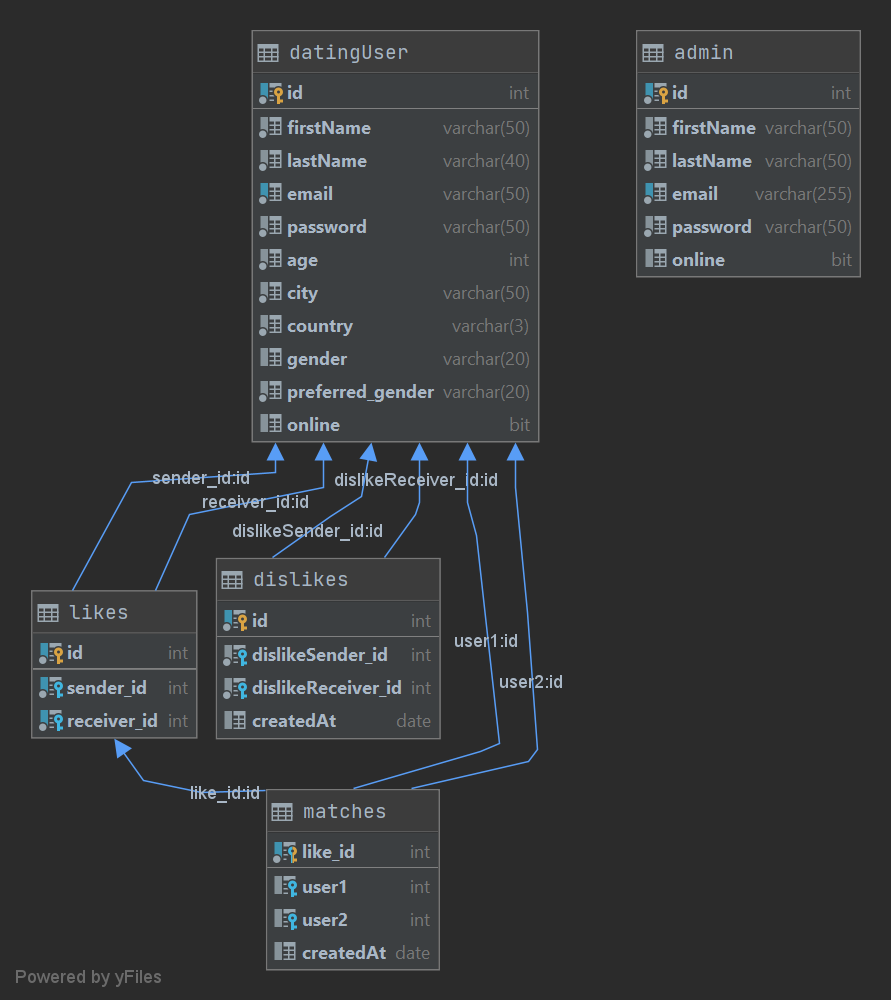
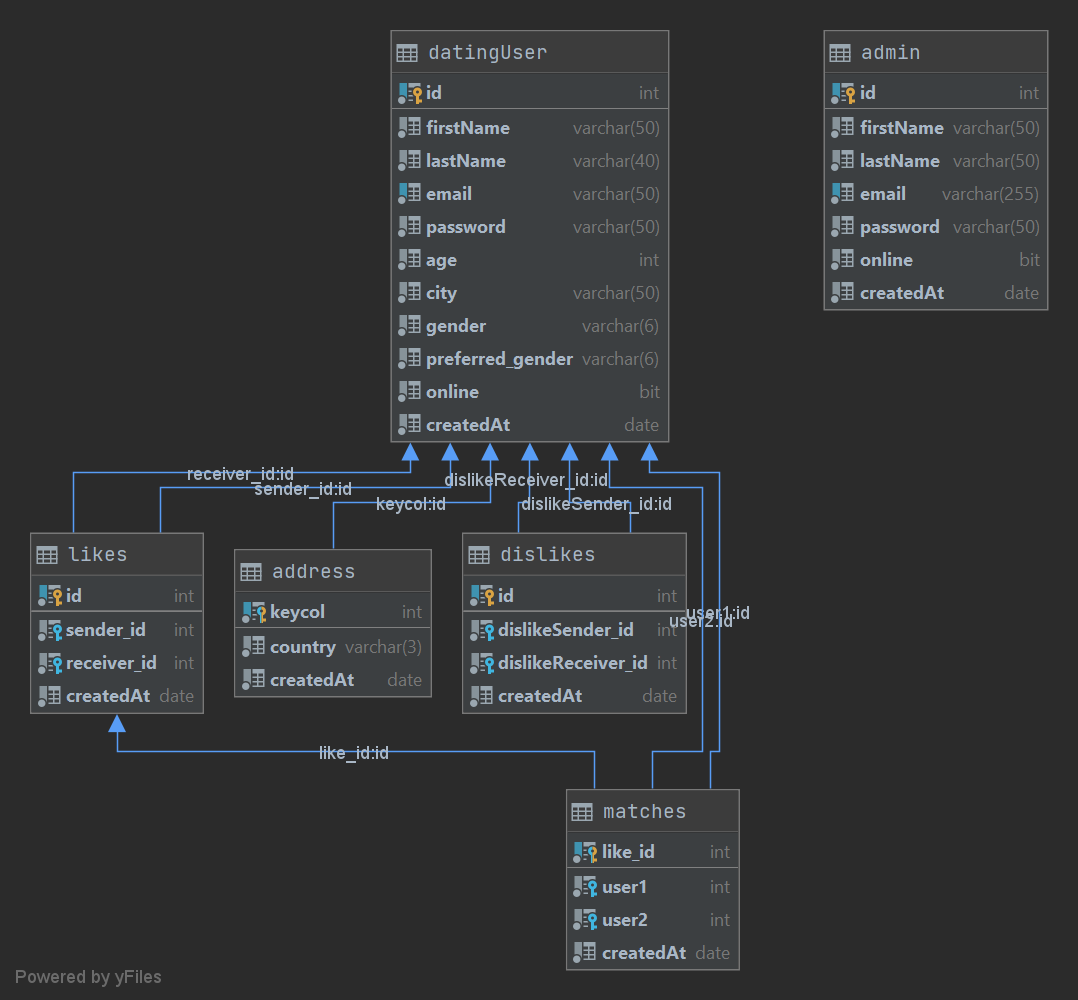
small changes

Changed region(s): [[0.0303, 0.031, 0.697, 0.961], [0.697, 0.031, 0.9697, 0.31], [0.0, 0.961, 0.1818, 0.992]]

diff --git a/Model/datingUserModel.js b/Model/datingUserModel.js
@@ -39,8 +39,15 @@ module.exports.startDB = startDB;
 //A user creates an account, when his information is posted to the database
 function insert(datingUser){
     return new Promise((resolve, reject) => {
-        const sql = `INSERT INTO [GK7].[datingUser] (firstName, lastName, email, password, age, city, country, gender, preferred_gender)
-         VALUES (@firstName, @lastName, @email, @password, @age, @city, @country, @gender, @preferred_gender)`
+        const sql = `BEGIN
+                        DECLARE @address TABLE  (id Int, country VARCHAR(3));
+                        INSERT INTO GK7.datingUser(firstName, lastName, email, password, age, city, gender, preferred_gender)
+                        OUTPUT inserted.id, 'Den'
+                        INTO @address
+                        VALUES (@firstName, @lastName, @email, @password, @age, @city, @gender, @preferred_gender)
+                        INSERT INTO GK7.address (keycol, country) (
+                        SELECT id, country FROM @address)
+                    END`
         const request = new Request(sql, (err) => {
             if (err) {
                 reject(err)
@@ -52,8 +59,7 @@ function insert(datingUser){
         request.addParameter('email', TYPES.VarChar, datingUser.email)
         request.addParameter('password', TYPES.VarChar, datingUser.password)
         request.addParameter('age', TYPES.Int, datingUser.age)
-        request.addParameter('city', TYPES.VarChar, datingUser.city)        
-        request.addParameter('country', TYPES.VarChar, datingUser.country)        
+        request.addParameter('city', TYPES.VarChar, datingUser.city)       
         request.addParameter('gender', TYPES.VarChar, datingUser.gender)
         request.addParameter('preferred_gender', TYPES.VarChar, datingUser.preferred_gender)
         request.on('requestCompleted', (row) => {
@@ -71,9 +77,15 @@ module.exports.insert = insert;
 //This function is also triggered, when getting one's profileid, firstName, lastName, email, age, city, country, gender, preferred_gender 
 function select(email, password){
     return new Promise((resolve, reject) => {
-        const sql = `SELECT id, firstName, lastName, email, password, age, city, country, gender, preferred_gender, online
-                    FROM [GK7].[datingUser]  
-                    WHERE email = @email AND password = @password`
+        const sql = `BEGIN
+                        UPDATE GK7.datingUser
+                        SET online = 1
+                        OUTPUT
+                        inserted.id, inserted.firstName, inserted.lastName, inserted.email, 
+                        inserted.age, inserted.city, inserted.gender, inserted.preferred_gender,
+                        inserted.online
+                        WHERE email = @email AND password = @password
+                    END`
         const request = new Request(sql, err => {
             if(err) {
                 reject(err)
@@ -98,7 +110,15 @@ module.exports.select = select;
 //Logout
 function logout(id) {
     return new Promise((resolve, reject) => {
-         let sql = `SELECT id, online FROM [GK7].[datingUser] WHERE id = @id`
+         let sql = `BEGIN
+                    UPDATE GK7.datingUser
+                    SET online = 0
+                    OUTPUT
+                    inserted.id,
+                    deleted.online,
+                    inserted.online
+                    WHERE id = @id
+                    END`
          let request = new Request(sql, (err) => {
          if (err) {
             reject(err);

diff --git a/View/js/explore.js b/View/js/explore.js
@@ -124,12 +124,18 @@ getUsersNearbyBtn.addEventListener('click', function(){
                         var id = localStorage.getItem("id")
                         for( i = 0; i < data.length; i ++){
                         if(data[i].city === city && data[i].id != id){
-                                document.getElementById("usersNearby").innerHTML += `
-                                <h3>${data[i].firstName} ${data[i].lastName} </h3> 
-                                 <span> Gender: ${data[i].gender} </span> <br>
+                                document.getElementById("usersNearby").insertAdjacentHTML ("beforeend", `
+                                <br>
+                                <h3>${data[i].firstName} ${data[i].lastName} </h3> <br>
+                                <span> Email for contact: </span> 
+                                    <a href> ${data[i].email}</a><br>
                                  <span> Age: ${data[i].age} </span> <br>
-                                 <span> Living in ${data[i].city} </span> <br
+                                 <span> Gender: ${data[i].gender} </span> <br>
+                                 <span> Looking for a ${data[i].preferred_gender} to date</span> <br>
+                                 <span> Living in ${data[i].city}, ${data[i].country} </span> <br>
+                                 <span> Lucky number: ${data[i].id} </span> <br><br>
                                  `
+                                )
                             }
                         }
                     })
@@ -159,7 +165,7 @@ genderBtn.addEventListener('click', function(e){
                                     return `<h3>${user.firstName} ${user.lastName} </h3> 
                                     <span> Gender: ${user.gender} </span> <br>
                                     <span> Age: ${user.age} </span> <br>
-                                    <span> Living in ${user.city}, ${user.country} </span> <br>
+                                    <span> Living in ${user.city}</span> <br>
                                     <span> Email for contact: </span> 
                                     <a href> ${user.email}</a><br>
                                     <span> Looking for a ${user.preferred_gender} to date</span> <br>
@@ -195,7 +201,7 @@ ageBtn.addEventListener('click', function(e){
                                     return `<h3>${user.firstName} ${user.lastName} </h3> 
                                     <span> Gender: ${user.gender} </span> <br>
                                     <span> Age: ${user.age} </span> <br>
-                                    <span> Living in ${user.city}, ${user.country} </span> <br>
+                                    <span> Living in ${user.city}</span> <br>
                                     <span> Email for contact: </span> 
                                     <a href> ${user.email}</a><br>
                                     <span> Looking for a ${user.preferred_gender} to date</span> <br>

diff --git a/View/index.html b/View/index.html
@@ -18,10 +18,21 @@
             <input type="email" id="email" placeholder="Email" required> <br>
             <input type="text" id="password" placeholder="Password" required> <br>
             <input type="integer" id="age" placeholder="Age" required>  <br>  
-            <input type="text" id="city" placeholder="City" required> <br>
-            <input type="text" id="country" placeholder="Country" required> <br>           
-            <input type="text" id="gender" placeholder="Gender" required><br>
-            <input type="text" id="preferred_gender" placeholder="Preferred_gender" required><br>
+            <input type="text" id="city" placeholder="City" required> <br>   
+            <p>Gender:</p>
+            <input type="radio" id="male" name="gender" value="Male">
+            <label for="male">Male</label><br>
+            <input type="radio" id="female" name="gender" value="Female">
+            <label for="female">Female</label><br>
+            <input type="radio" id="other" name="gender" value="Other">
+            <label for="other">Other</label>
+            <p>Preferred gender to date:</p>
+            <input type="radio" id="male1" name="preferred_gender" value="Male">
+            <label for="male">Male</label><br>
+            <input type="radio" id="female1" name="preferred_gender" value="Female">
+            <label for="female">Female</label><br>
+            <input type="radio" id="other1" name="preferred_gender" value="Other">
+            <label for="other">Other</label><br>
             <button type="submit" class="btn btn-outline-primary" name="Submit">Create your account!</button>
         </form>
     </div>

diff --git a/View/js/profile.js b/View/js/profile.js
@@ -19,7 +19,7 @@ getMyProfile.addEventListener('click', function(){
                               return `<h3>${user.firstName} ${user.lastName} </h3> 
                                       <span> Gender: ${user.gender} </span> <br>
                                       <span> Age: ${user.age} </span> <br>
-                                      <span> Living in ${user.city}, ${user.country} </span> <br>
+                                      <span> Living in ${user.city} </span> <br>
                                       <span> Email for contact: </span> 
                                       <a href> ${user.email}</a><br>
                                       <span> Looking for a ${user.preferred_gender} to date</span> <br>
@@ -56,6 +56,7 @@ logoutBtn.addEventListener("click", function() {
                 localStorage.removeItem("id", data[i].id)
                 localStorage.removeItem("email", email);
                 localStorage.removeItem("password", password);
+                localStorage.removeItem("city", city);
                 localStorage.setItem("online", data[i].online = false);
                 console.log(data + 'User logged out')
                 window.location = 'index.html'

diff --git a/View/js/index.js b/View/js/index.js
@@ -8,10 +8,9 @@ form.addEventListener("submit", function(e) {
     var email = document.getElementById("email").value
     var password = document.getElementById("password").value
     var age = document.getElementById("age").value
-    var city = document.getElementById("city").value     
-    var country = document.getElementById("country").value    
-    var gender = document.getElementById("gender").value
-    var preferred_gender = document.getElementById("preferred_gender").value
+    var city = document.getElementById("city").value    
+    var gender = document.querySelector('input[name="gender"]:checked').value
+    var preferred_gender = document.querySelector('input[name="preferred_gender"]:checked').value
     fetch("http://localhost:7071/api/createUser", {
         method: "POST",
         body: JSON.stringify({
@@ -21,7 +20,6 @@ form.addEventListener("submit", function(e) {
             password: password,
             age: age,            
             city: city,
-            country: country,
             gender: gender,
             preferred_gender: preferred_gender
         }),

diff --git a/createMatch/index.js b/createMatch/index.js
@@ -5,27 +5,26 @@ module.exports = async function (context, req) {
     context.log('JavaScript HTTP trigger function processed a request.');
 
     try{
-        await matchModel.startDB(); // Start DB connection
+        await datingUserModel.startDB(); // Start DB connection
     } catch(error) {
         console.log("Error connecting to the database", error.message)
     }
     switch(req.method){
         case 'POST':
             console.log("test")
-            await post(context, req);
+            await post(context);
             break; 
         }
     }
 
-    async function post(context, req) {
+    async function post(context) {
         try {
             var match = new Match()
-            console.log(match)
             await datingUserModel.createMatch();
             var matchArr = []
             matchArr.push(match)
             context.res = {
-            body: {status: 200},
+            body: matchArr,
             }
         } catch(error) {
             context.res = {

diff --git a/Model/userModel.js b/Model/userModel.js
@@ -62,8 +62,9 @@ module.exports.updateUser = updateUser;
 function getUsers(){
     return new Promise((resolve, reject) => {
         const sql = `BEGIN
-                        SELECT id, firstName, lastName, email, age, city, country, gender, preferred_gender
-                        FROM GK7.datingUser 
+                        SELECT firstName, lastName, email, age, city, gender, preferred_gender, id, country
+                        FROM GK7.datingUser d
+                        LEFT JOIN GK7.address a on d.id = a.keycol 
                     END`
         const request = new Request(sql, err => {
             if(err) {

diff --git a/View/js/login.js b/View/js/login.js
@@ -28,14 +28,11 @@ login.addEventListener("click", function() {
             localStorage.setItem("password", password);
             localStorage.setItem("city", data[i].city);
             localStorage.setItem("online", data[i].online = true);
-            console.log(data)
             window.location = 'profile.html'
-            
-         //How we stay logged i
-        }
-})
+            }
+        })
         .catch((err) => {
           console.log(err)
-          //window.alert("Vi kunne desværre ikke finde dig i systemet")
+          window.alert("Vi kunne desværre ikke finde dig i systemet")
         });
     })

diff --git a/View/explore.html b/View/explore.html
@@ -52,10 +52,12 @@
     </div><br><br>
     
     <p>Enter a city and see potential matches in your area below!</p>
+    
     <div id = "usersNearby">
             <form method="get">
                 <button class="btn btn-outline-primary" type="button" id="getUsersNearby" class="button">Find users nearby!</a>
                 </button>
+                
             </div>
 <br>
 

diff --git a/createUser/index.js b/createUser/index.js
@@ -21,7 +21,6 @@ module.exports = async function (context, req) {
     async function post(context, req) {
         try {
             var user = new datingUser(req)
-            console.log(user)
             await datingUserModel.insert(user)
             context.res = {
             body: user

diff --git a/getAllMatches/index.js b/getAllMatches/index.js
@@ -15,7 +15,7 @@ module.exports = async function (context, req) {
         }
     }
 
-    //Dette er funktionen til vores get all users for ADMIN 
+//Admin can get all matches
    async function get(context) {
         try {
             let result = await adminModel.getAllMatches()
